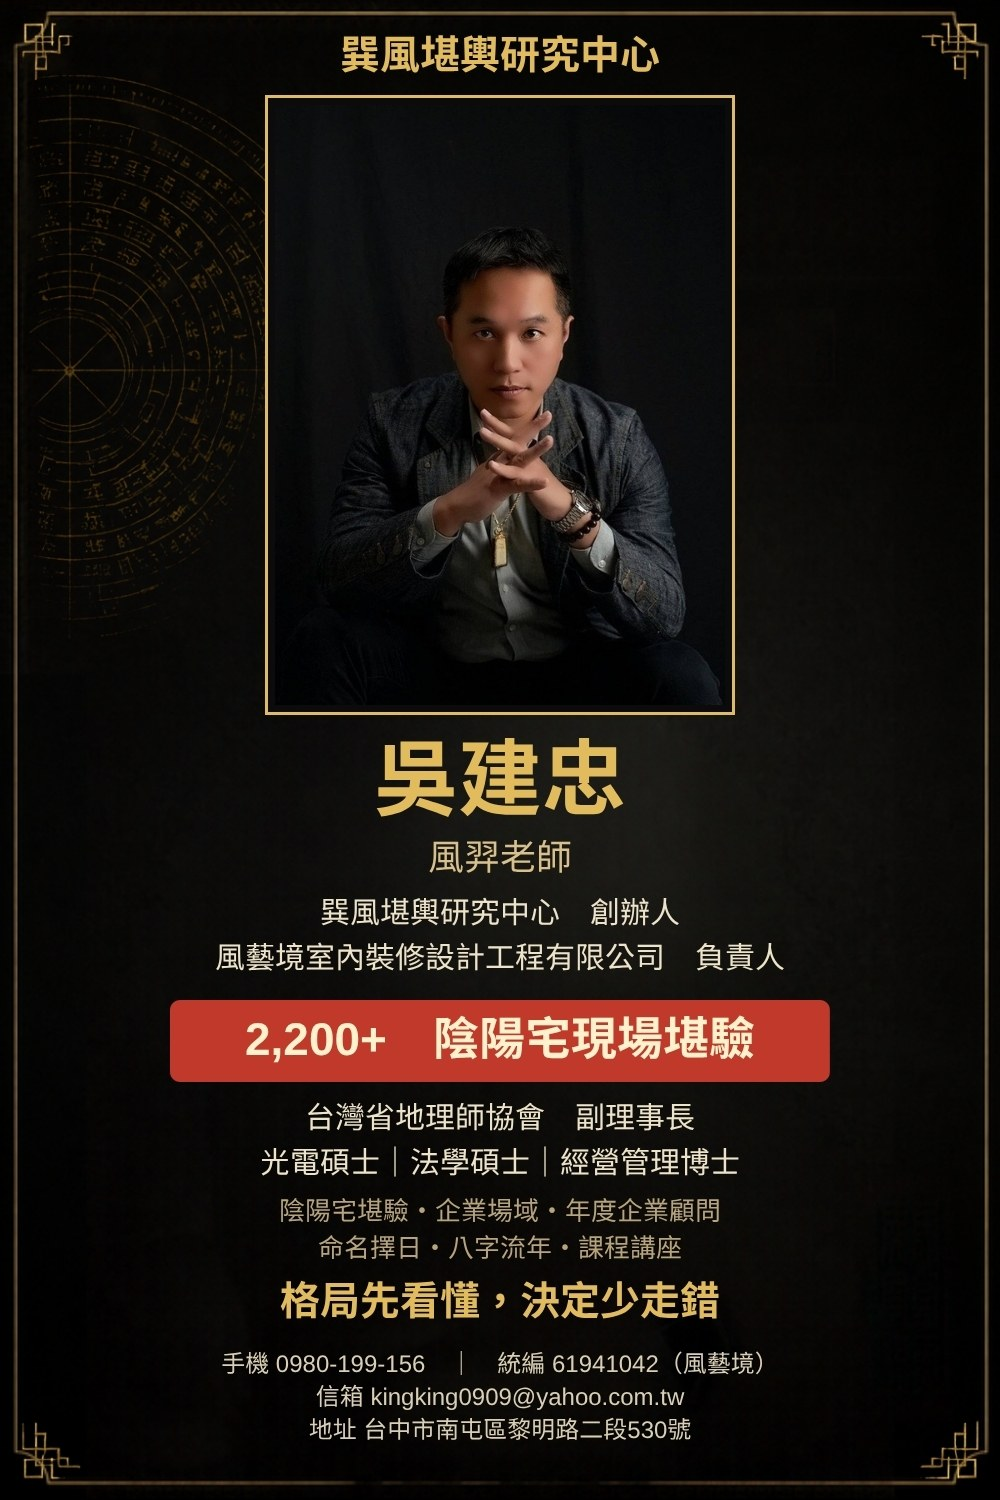
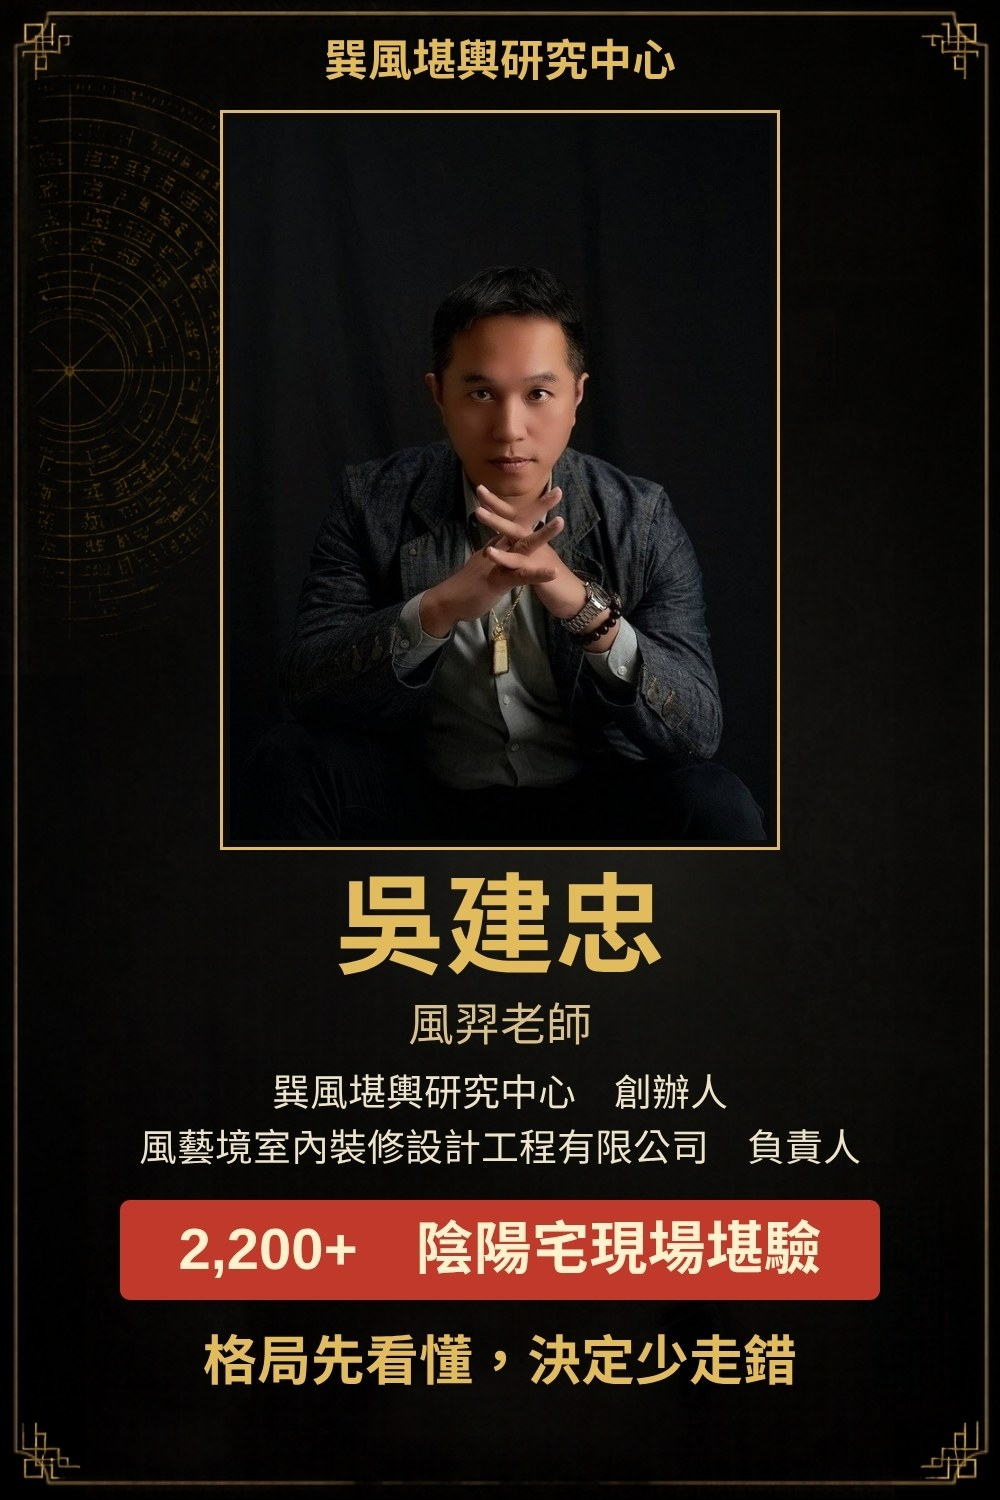
電子名片：資料分攤到三頁、字放大（v2）
Claude-Session: https://claude.ai/code/session_01TPzwLT5iPTdQ1myafqMa1T

diff --git a/card/index.html b/card/index.html
@@ -30,9 +30,9 @@
   <p>吳建忠（風羿老師）電子名片</p>
 </header>
 <div class="rail">
-  <img src="nc_1.jpg" alt="吳建忠 主名片">
-  <img src="nc_2.jpg" alt="吳建忠 形象照">
-  <img src="nc_3.jpg" alt="吳建忠 形象照">
+  <img src="nc_1.jpg?v=2" alt="吳建忠 主名片">
+  <img src="nc_2.jpg?v=2" alt="吳建忠 形象照">
+  <img src="nc_3.jpg?v=2" alt="吳建忠 形象照">
 </div>
 <div class="dots">← 左右滑動 →</div>
 <div class="act">
@@ -64,7 +64,7 @@ const footer = (rows) => ({
 });
 const pair = (a, b) => ({ type: 'box', layout: 'horizontal', spacing: 'sm', contents: [a, b] });
 const hero = (img, uri) => ({
-  type: 'image', url: BASE + img, size: 'full', aspectRatio: '2:3', aspectMode: 'cover',
+  type: 'image', url: BASE + img + '?v=2', size: 'full', aspectRatio: '2:3', aspectMode: 'cover',
   action: { type: 'uri', uri }
 });
 const bubble = (img, rows) => ({
